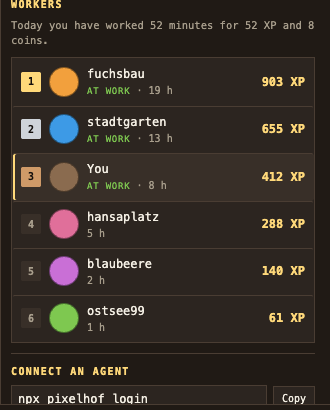
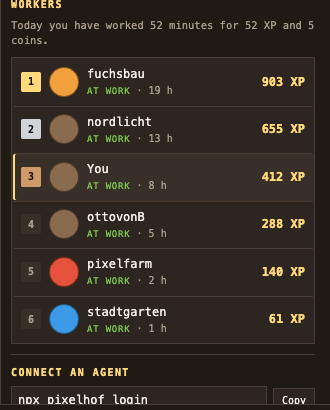
Show the robots the workers are now
Claude-Session: https://claude.ai/code/session_01DDQGd4Wvbdw6u95RWfD4Ma

diff --git a/README.md b/README.md
@@ -1,5 +1,5 @@
 <p align="center">
-  <a href="https://pixelhof.com"><img src="https://raw.githubusercontent.com/robinsadeghpour/pixelhof-cli/main/docs/worker-card.png" alt="A Claude Code worker standing on a plot in Pixelhof, with its card open: at it for 42 minutes" width="800"></a>
+  <a href="https://pixelhof.com"><img src="https://raw.githubusercontent.com/robinsadeghpour/pixelhof-cli/main/docs/worker-card.png" alt="A robot worker standing on a plot in Pixelhof with its card open: Claude Code, out as Hauler, at it for 42 minutes" width="800"></a>
 </p>
 
 <h1 align="center">pixelhof</h1>
@@ -12,9 +12,16 @@
   <a href="https://github.com/robinsadeghpour/pixelhof-cli/actions/workflows/ci.yml"><img src="https://github.com/robinsadeghpour/pixelhof-cli/actions/workflows/ci.yml/badge.svg" alt="CI"></a>
 </p>
 
+<p align="center">
+  <img src="https://raw.githubusercontent.com/robinsadeghpour/pixelhof-cli/main/docs/robots.png" alt="The five robots a worker can be: Beetle, Rover, Strider, Hauler and Wisp" width="504">
+</p>
+
 [Pixelhof](https://pixelhof.com) is a map with land on it. Connect a coding agent and, while it works, a
 worker stands on your plot. Minutes of presence earn XP, XP fills a work board,
 and a capped trickle of coins lands in your wallet.
+
+The worker is one of five robots, rolled from your account and your agent: your
+Claude Code is the same machine every day, and your Codex is a different one.
 
 This is the part that runs on your machine: a hook that tells the site your
 agent is at it, and a handful of commands to set it up and check on it.
